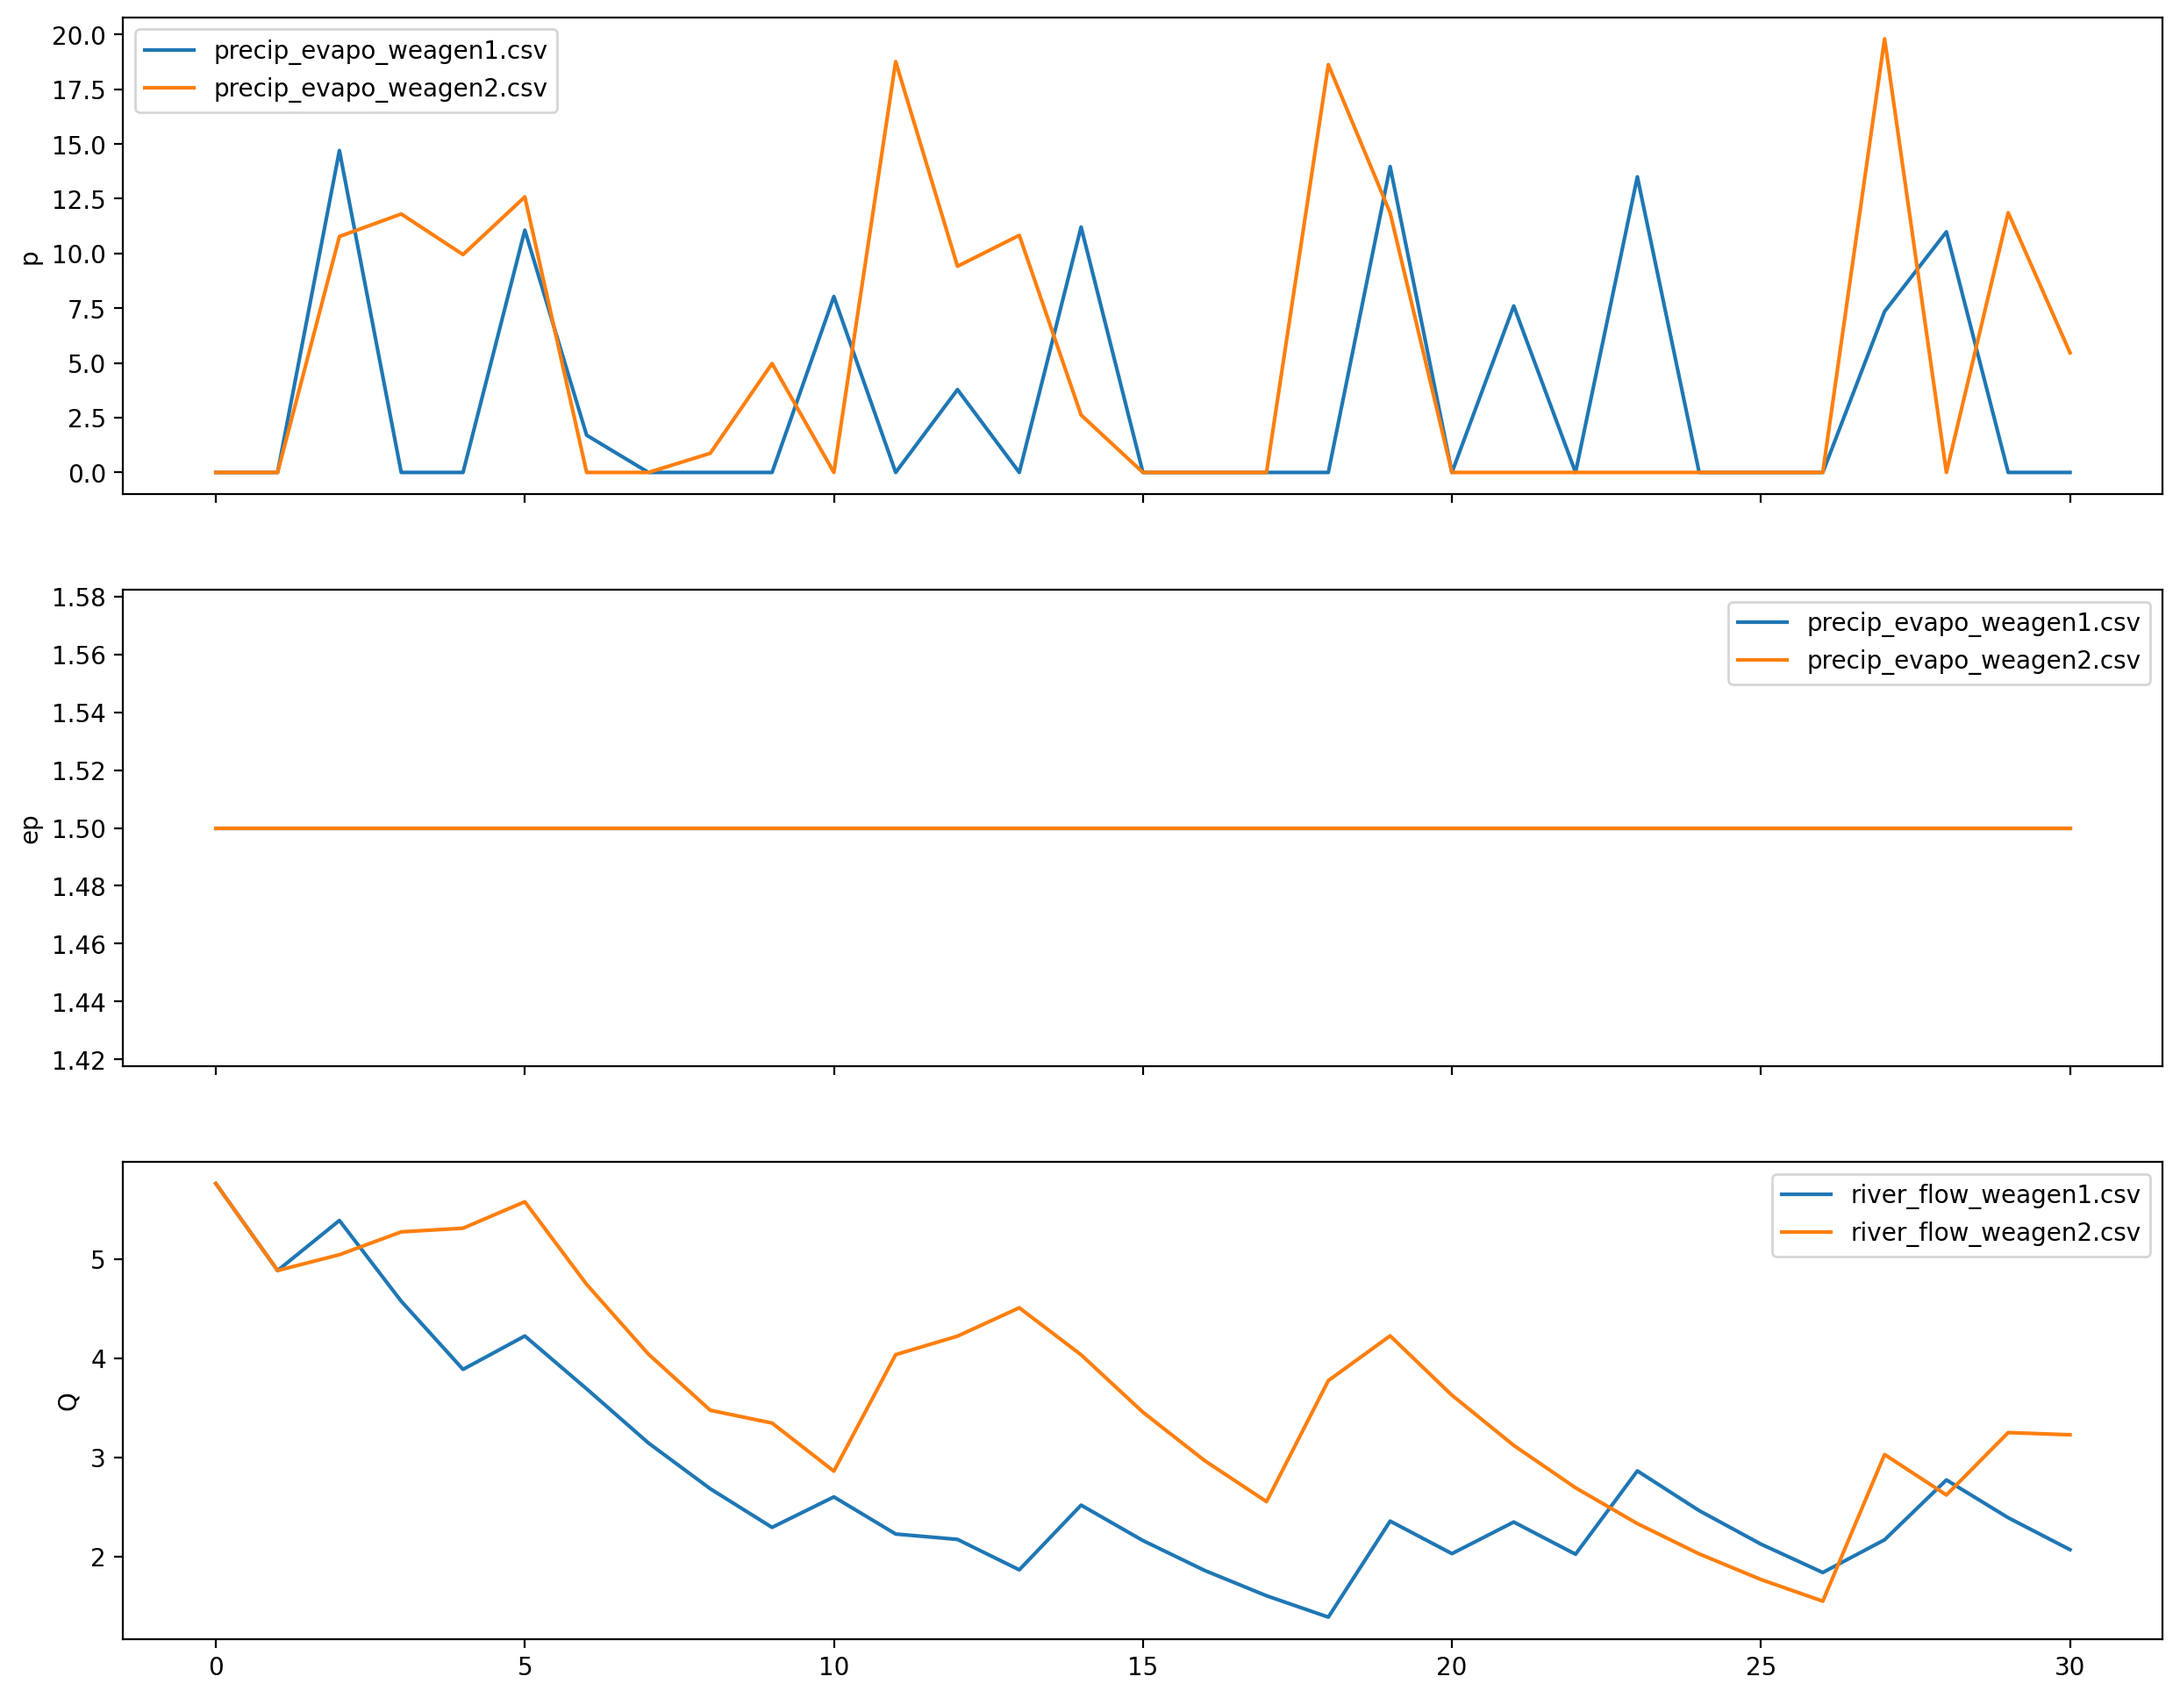
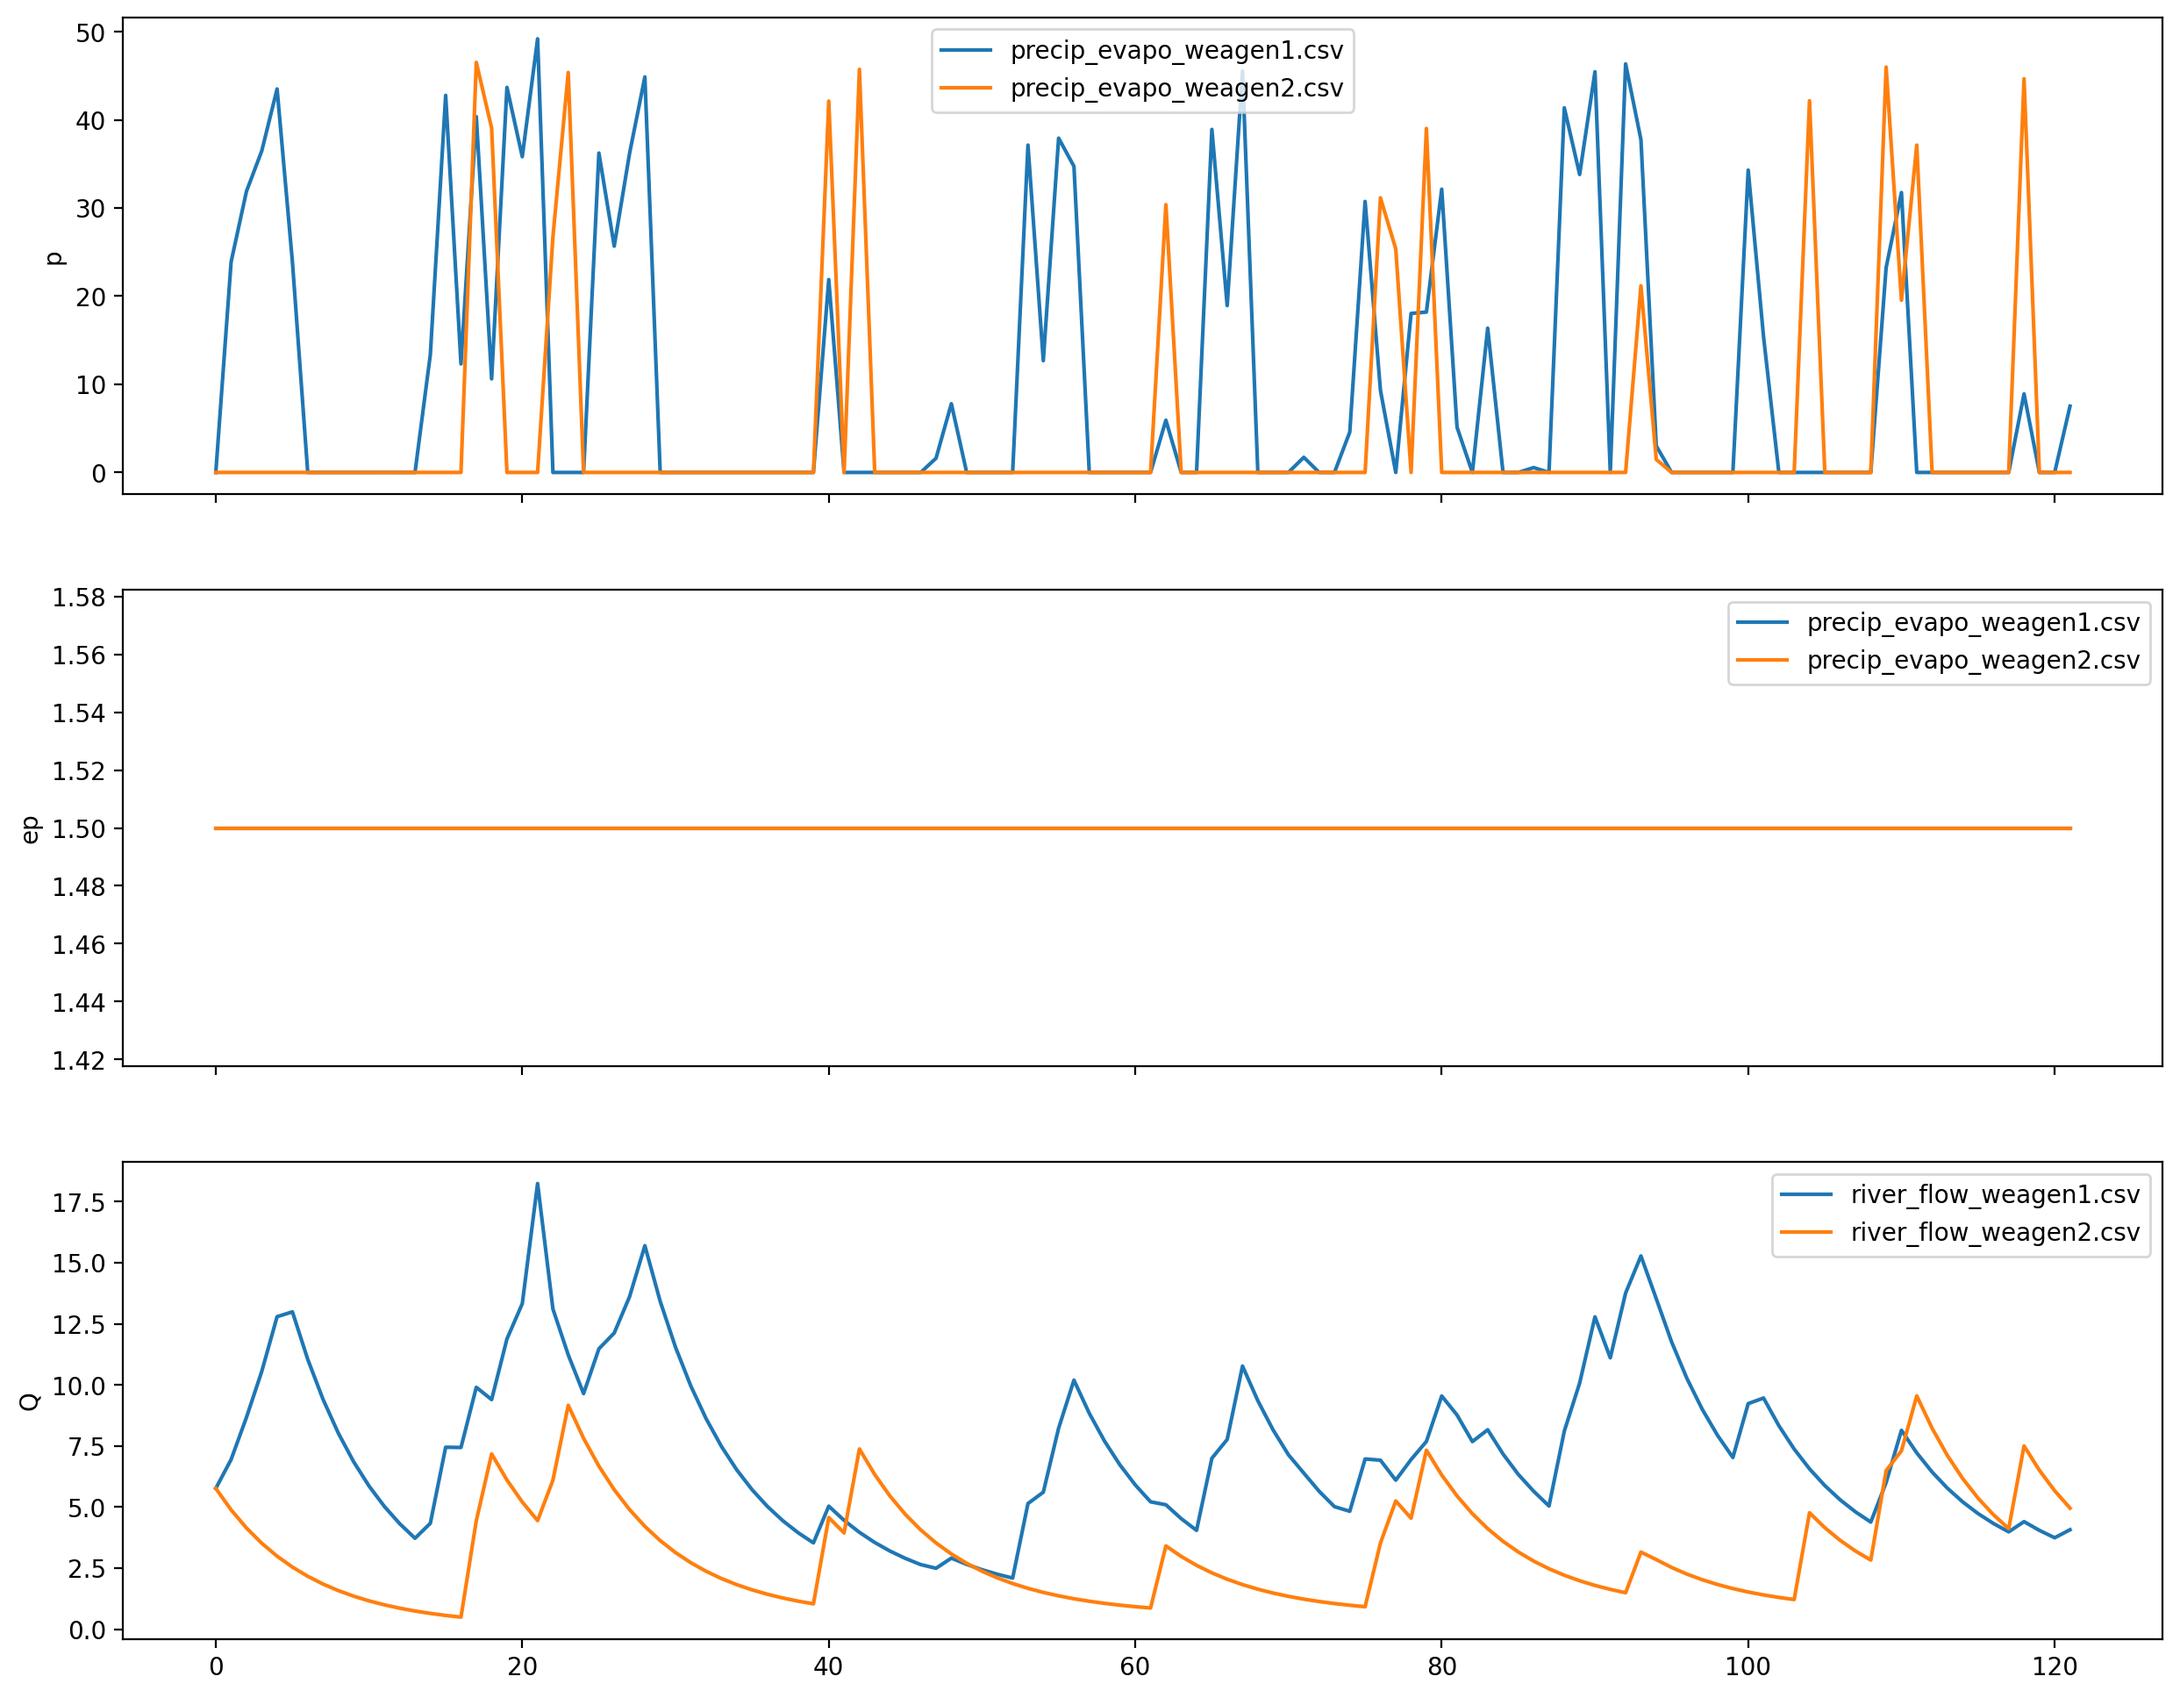
updated RR with better weagen

diff --git a/scripts/weather_generator.py b/scripts/weather_generator.py
@@ -1,8 +1,39 @@
 import os
-import hydromt
 import numpy as np
 import pandas as pd
 import matplotlib.pyplot as plt
+
+def get_markov_rainfall(prev_rainfall, p_01, p_10, thres=1., multiplier=20.):
+    """
+    Function to generate daily rainfall from previous day rainfall and markov parameters
+
+    Parameters
+    ----------
+    prev_rainfall : float
+        Amount of rainfall from the previous day in [mm day-1]
+    p_01 : float(0-1)
+        Probability of a wet day following on a dry day
+    p_10 : float(0-1)
+        Probability of a dry day following on a wet day
+    thres : float, optional
+        Threshold defining amount of rainfall [mm day-1] that is considered a dry (lt) or wet (ge) day rainfall amount
+    multiplier : float, optional
+        Multiplier used to convert a randomly drawn number (0-1) into a mm day-1 rainfall amount.
+    Returns
+    -------
+    rainfall : float
+        Amount of rainfall at the present day
+
+    """
+    if prev_rainfall >= thres:
+        wet = np.random.choice(np.array([True, False]), p=np.array([1-p_10, p_10]))
+    else:
+        wet = np.random.choice(np.array([True, False]), p=np.array([p_01, 1-p_01]))
+    if wet:
+        return np.random.rand() * multiplier  # can be under thres, which makes this into a rainfall day that can transition more easily to a dry day.
+    else:
+        return 0.
+
 
 # SnakeMake arguments are automatically passed WITHOUT importing a lib. So this .py file is basicallly used as a template.
 start_date = snakemake.params.start_date
@@ -10,15 +41,31 @@ end_date = snakemake.params.end_date
 fn = os.path.abspath(snakemake.output.weather_csv)
 evapo = snakemake.params.evapo
 multiplier = snakemake.params.multiplier
-dry_day_frac = snakemake.params.dry_day_fraction
+
+# probabilities from dry to wet and wet to dry
+p_01 = snakemake.params.p_01
+p_10 = snakemake.params.p_10
+thres = snakemake.params.rainfall_thres
+
+# dry_day_frac = snakemake.params.dry_day_fraction
 jpg_out = os.path.join(os.path.split(fn)[0], "weather_plot.jpg")
 
 # now we make some random data, by making some random number between
 dates = pd.date_range(start_date, end_date)
 
 print(f"Creating weather data from {start_date} to {end_date}")
-# now we create a nice short random precipitation series. Put this into a pandas dataframe and write to a csv file
-precip = np.maximum((np.random.rand(len(dates)) - dry_day_frac) * multiplier, 0)
+# now we create a nice precipitation series. Put this into a pandas dataframe and write to a csv file
+precip = [0.]
+for n in range(len(dates)-1):
+    precip.append(
+        get_markov_rainfall(
+            precip[-1],
+            p_01,
+            p_10,
+            thres=thres,
+            multiplier=multiplier
+        )
+    )
 pot_evapo = np.ones(len(dates)) * evapo
 df = pd.DataFrame({"p": precip, "ep": pot_evapo}, index=dates)
 df.index.name = "date"

diff --git a/scripts/plot_timeseries.py b/scripts/plot_timeseries.py
@@ -1,4 +1,4 @@
-# This first line is used to save the python code below into a file called "src/create_file.py"
+# This first line is used to save the python code below into a file called "scripts/plot_timeseries.py"
 
 ######################################################################################
 ####################### Content of the python script #################################
@@ -6,20 +6,16 @@ import os
 import pandas as pd
 import matplotlib.pyplot as plt
 
-# Main function
-def plot_timeseries(
-    csv_files: list, variables: list, outputfile: str, **kwargs
-) -> None:
+# Main function 
+def plot_timeseries(csv_files: list, variables: list, outputfile: str, **kwargs) -> None:
     """
     Reads different csv files in csv_files list and prepares a plot per variable in variables list.
     The plot will be saved to outputfile.
-
+    
     kwargs can be used to pass specific arguments into the pandas.read_csv function.
     """
     # Initialiase plots
-    print(
-        f"Initialising plots for variables {variables} based on csv files: {csv_files}"
-    )
+    print(f"Initialising plots for variables {variables} based on csv files: {csv_files}")
     n = len(variables)
     fig, axes = plt.subplots(n, 1, sharex=True, figsize=(15, n * 4))
     axes = [axes] if n == 1 else axes
@@ -43,25 +39,20 @@ def plot_timeseries(
     for i in range(len(variables)):
         axes[i].set_ylabel(variables[i])
         axes[i].legend()
-
+    
     # Save plot
     print(f"Saving plot in {outputfile}")
     fig.savefig(outputfile, bbox_inches="tight", dpi=200)
-
+    
 
 # Get the snakemake arguments
-csv_files = [
-    "data/precip_evapo_weagen1.csv",
-    "output/river_flow_weagen1.csv",
-    "data/precip_evapo_weagen2.csv",
-    "output/river_flow_weagen2.csv",
-]
-variables = ["p", "ep", "Q"]
-outputfile = "output/plot_results_example.png"
+csv_files = ['data/precip_evapo_weagen1.csv', 'output/river_flow_weagen1.csv', 'data/precip_evapo_weagen2.csv', 'output/river_flow_weagen2.csv']
+variables = ['p', 'ep', 'Q']
+outputfile = 'output/plot_results_example.png'
 
 # Run our function
 plot_timeseries(
-    csv_files=csv_files,
-    variables=variables,
-    outputfile=outputfile,
+    csv_files = csv_files, 
+    variables = variables, 
+    outputfile = outputfile,
 )
